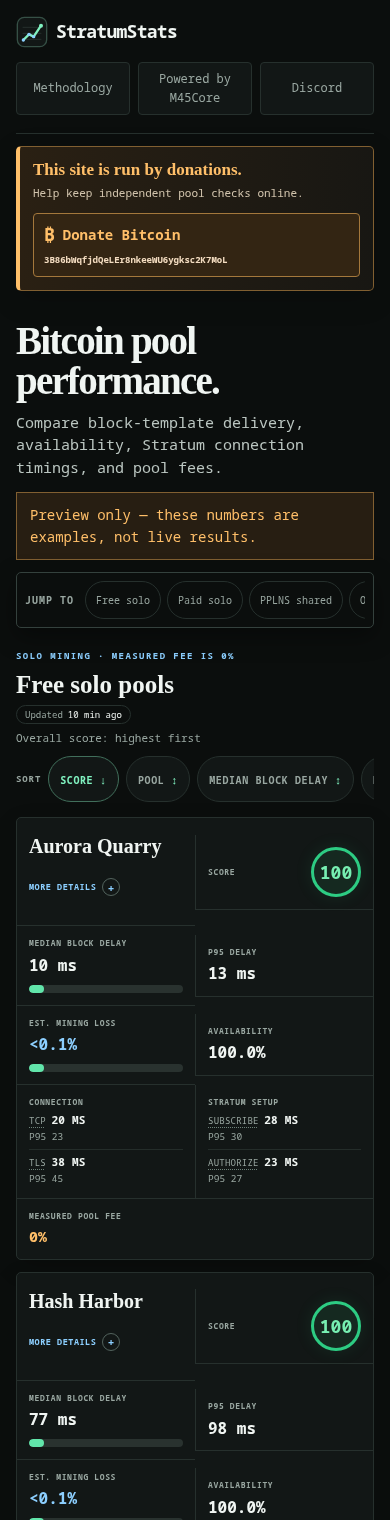
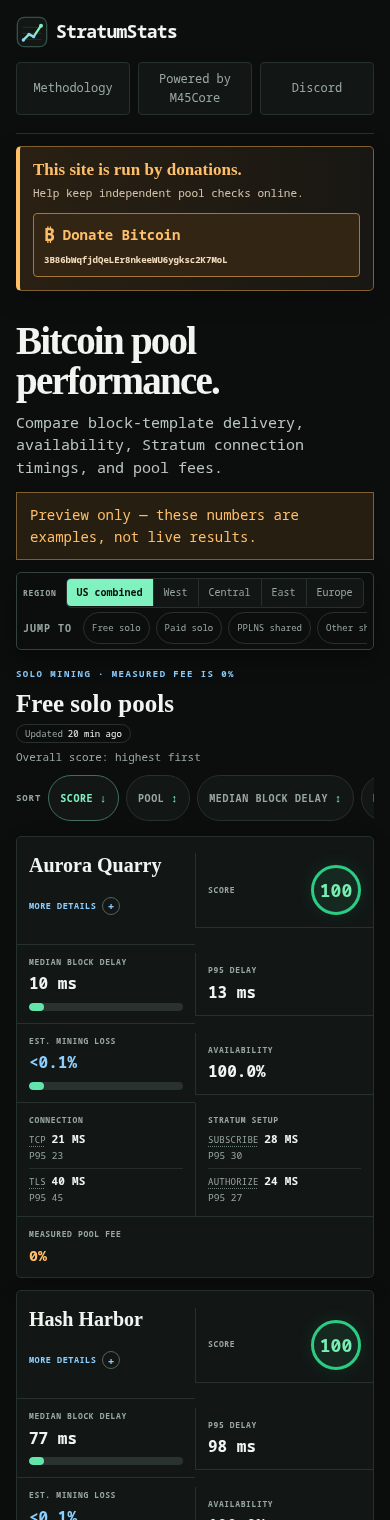
Restore regions in compact dashboard controls

diff --git a/internal/web/static/style.css b/internal/web/static/style.css
@@ -17,12 +17,13 @@
 .measurement-head,.measurement-row{grid-template-columns:1.25fr 1.4fr .75fr .9fr 1fr 1.1fr 1.1fr 1.05fr;min-width:1280px}.fee-changed{color:var(--red)!important;font-weight:800}
 .visually-hidden{position:absolute!important;width:1px!important;height:1px!important;padding:0!important;margin:-1px!important;overflow:hidden!important;clip:rect(0,0,0,0)!important;white-space:nowrap!important;border:0!important}@keyframes row-update-flash{0%{background:rgba(128,242,192,.32);box-shadow:inset 5px 0 0 var(--mint)}100%{background:transparent;box-shadow:inset 0 0 0 transparent}}.measurement-row.row-updated{animation:row-update-flash 1.8s ease-out}@media(prefers-reduced-motion:reduce){.measurement-row.row-updated{animation:none;box-shadow:inset 5px 0 0 var(--mint)}}
 .vantage-bar{display:flex;align-items:center;justify-content:space-between;gap:18px;margin:0 0 18px}.vantage-selector{display:flex;border:1px solid var(--line);border-radius:5px;overflow:hidden;background:var(--panel)}.vantage-selector a{padding:8px 13px;color:var(--muted);font-size:11px;border-right:1px solid var(--line)}.vantage-selector a:last-child{border-right:0}.vantage-selector a:hover{color:var(--ink)}.vantage-selector a[aria-current=page]{background:var(--mint);color:#08110d;font-weight:800}.vantage-bar p{margin:0;color:var(--muted);font-size:10px;text-align:right}.vantage-bar p strong{color:var(--ink)}.vantage-stale{color:var(--red);font-weight:800}
-.dashboard-controls{position:sticky;top:0;z-index:15;display:grid;gap:8px;margin:0 0 28px;padding:10px;border:1px solid #34413d;border-radius:5px;background:rgba(11,14,13,.97);box-shadow:0 8px 24px rgba(0,0,0,.38);backdrop-filter:blur(8px)}.dashboard-controls .vantage-bar{justify-content:flex-start;margin:0;min-width:0}.dashboard-controls .vantage-bar p{margin-left:auto}.control-label{flex:0 0 auto;margin-right:5px;color:var(--muted);font-size:9px;font-weight:800;letter-spacing:.1em;text-transform:uppercase}.dashboard-controls .section-jump{flex-wrap:nowrap;min-width:0;margin:0;padding:0;overflow-x:auto;overscroll-behavior-inline:contain;scrollbar-width:thin}.dashboard-controls .section-jump span,.dashboard-controls .section-jump a{flex:0 0 auto}.dashboard-controls .section-jump a{display:inline-flex;align-items:center;min-height:32px}.pool-section[id]{scroll-margin-top:112px}
+.dashboard-controls{position:sticky;top:0;z-index:15;display:flex;align-items:center;gap:12px;margin:0 0 22px;padding:6px 8px;border:1px solid #34413d;border-radius:5px;background:rgba(11,14,13,.97);box-shadow:0 8px 24px rgba(0,0,0,.38);backdrop-filter:blur(8px)}.dashboard-controls .vantage-bar{flex:0 0 auto;justify-content:flex-start;gap:6px;margin:0;min-width:0}.dashboard-controls .vantage-selector a{padding:6px 10px;font-size:10px}.control-label{flex:0 0 auto;margin-right:3px;color:var(--muted);font-size:8px;font-weight:800;letter-spacing:.1em;text-transform:uppercase}.dashboard-controls .section-jump{flex-wrap:nowrap;min-width:0;margin:0;padding:0;overflow-x:auto;overscroll-behavior-inline:contain;scrollbar-width:thin}.dashboard-controls .section-jump span,.dashboard-controls .section-jump a{flex:0 0 auto}.dashboard-controls .section-jump a{display:inline-flex;align-items:center;min-height:28px;padding:4px 7px;font-size:9px}.pool-section[id]{scroll-margin-top:64px}
 .free-eyebrow{color:#8ccfff}.free-section .measurement-head{border-bottom-color:#4b7890}.free-section .measurement-row{border-left:2px solid rgba(140,207,255,.45)}
 .pplns-eyebrow{color:var(--amber)}.other-eyebrow{color:#d5b8ff}.pplns-section .measurement-head{border-bottom-color:#80623d}.other-section .measurement-head{border-bottom-color:#655477}
 @media(max-width:900px){.compact-hero>div{display:block}.compact-hero h1{white-space:normal}.compact-hero .lede{margin-top:10px}.measurement-head,.measurement-row{min-width:1180px}}
 @media(max-width:620px){.vantage-bar{display:block}.vantage-selector{overflow-x:auto}.vantage-selector a{flex:1;text-align:center;white-space:nowrap}.vantage-bar p{margin-top:8px;text-align:left}}
-@media(max-width:620px){.dashboard-controls{gap:9px;margin-bottom:22px;padding:8px}.dashboard-controls .vantage-bar{display:grid;grid-template-columns:auto minmax(0,1fr);gap:7px}.dashboard-controls .vantage-selector{min-width:0}.dashboard-controls .vantage-bar p{grid-column:1/-1;margin:0;text-align:left}.dashboard-controls .section-jump a{min-height:38px;padding:7px 10px}.pool-section[id]{scroll-margin-top:150px}}
+@media(max-width:900px){.dashboard-controls{display:grid;gap:5px}.dashboard-controls .vantage-bar{display:flex}.dashboard-controls .vantage-selector{min-width:0;overflow-x:auto}.pool-section[id]{scroll-margin-top:104px}}
+@media(max-width:620px){.dashboard-controls{margin-bottom:18px;padding:5px 6px}.dashboard-controls .vantage-selector a{padding:6px 10px}.dashboard-controls .section-jump a{min-height:32px;padding:5px 8px}.pool-section[id]{scroll-margin-top:104px}}
 
 
 .measurement-row>.measurement-details{grid-column:1/-1;min-width:0;padding:0;border-top:1px solid #202926;background:#0f1413}

diff --git a/internal/web/templates/index.html b/internal/web/templates/index.html
@@ -126,7 +126,7 @@
   {{if .Demo}}<div class="notice dashboard-notice compact-notice">Preview only — these numbers are examples, not live results.</div>{{end}}
 
   <div class="dashboard-controls">
-    {{if and (not .Demo) (or (index .AvailableVantages "unknown") .ShowUSCombined (index .AvailableVantages "us-west") (index .AvailableVantages "us-central") (index .AvailableVantages "us-east") (index .AvailableVantages "europe"))}}<section class="vantage-bar" aria-label="Measurement region">
+    {{if or (index .AvailableVantages "unknown") .ShowUSCombined (index .AvailableVantages "us-west") (index .AvailableVantages "us-central") (index .AvailableVantages "us-east") (index .AvailableVantages "europe")}}<section class="vantage-bar" aria-label="Measurement region">
       <span class="control-label">Region</span>
       <div class="vantage-selector">
         {{if index .AvailableVantages "unknown"}}<a href="/?vantage=unknown" data-vantage="unknown" {{if eq .SelectedVantage "unknown"}}aria-current="page"{{end}}>Local</a>{{end}}
@@ -136,7 +136,6 @@
         {{if index .AvailableVantages "us-east"}}<a href="/?vantage=us-east" data-vantage="us-east" {{if eq .SelectedVantage "us-east"}}aria-current="page"{{end}}>East</a>{{end}}
         {{if index .AvailableVantages "europe"}}<a href="/?vantage=europe" data-vantage="europe" {{if eq .SelectedVantage "europe"}}aria-current="page"{{end}}>Europe</a>{{end}}
       </div>
-      <p><strong>{{.SelectedLabel}}</strong>{{with .VantageStatus}}{{if .LastObservationAt}} · checked <time datetime="{{.LastObservationAt.Format "2006-01-02T15:04:05Z07:00"}}" data-relative-time>{{.LastObservationAt.Format "02 Jan 15:04 UTC"}}</time>{{end}}{{if .Stale}} · <span class="vantage-stale">out of date</span>{{end}}{{else}}{{if eq .SelectedVantage "unknown"}} · locally collected data{{else}} · combined regional results{{end}}{{end}}</p>
     </section>{{end}}
     <nav class="section-jump" aria-label="Jump to pool group" {{if not (or .FreePools .NormalPools .PPLNSPools .OtherPools .NoRecentDataPools .MissingWalletPools .PendingWalletPools)}}hidden{{end}}><span class="control-label">Jump to</span><a href="#free-solo-pools" {{if not .FreePools}}hidden{{end}}>Free solo</a><a href="#non-free-solo-pools" {{if not .NormalPools}}hidden{{end}}>Paid solo</a><a href="#pplns-share-pools" {{if not .PPLNSPools}}hidden{{end}}>PPLNS shared</a><a href="#other-non-solo-pools" {{if not .OtherPools}}hidden{{end}}>Other shared</a><a href="#no-recent-data-pools" {{if not .NoRecentDataPools}}hidden{{end}}>No recent data</a><a href="#missing-worker-wallet-pools" {{if not .MissingWalletPools}}hidden{{end}}>Worker wallet missing</a><a href="#pending-worker-wallet-pools" {{if not .PendingWalletPools}}hidden{{end}}>Verification pending</a></nav>
   </div>

diff --git a/internal/app/demo_protocol.go b/internal/app/demo_protocol.go
@@ -10,8 +10,10 @@ import (
 )
 
 func appendDemoProtocolData(out []model.Observation, pools []model.Pool, rng *rand.Rand, now time.Time) []model.Observation {
+	demoVantages := [...]string{"us-west", "us-central", "us-east", "europe"}
 	for sample := 0; sample < 24; sample++ {
 		observedAt := now.Add(-time.Duration(24-sample) * 6 * time.Hour)
+		vantage := demoVantages[sample%len(demoVantages)]
 		for index, pool := range pools {
 			if len(pool.Endpoints) == 0 {
 				continue
@@ -20,29 +22,29 @@ func appendDemoProtocolData(out []model.Observation, pools []model.Pool, rng *ra
 			address := net.JoinHostPort(endpoint.Host, strconv.Itoa(endpoint.Port))
 			base := float64(18 + index*4)
 			out = append(out,
-				demoProtocolObservation(observedAt, pool.ID, address, endpoint.TLS, model.ProtocolConnect, model.ProtocolStatusOK, base+rng.Float64()*base*.35),
-				demoProtocolObservation(observedAt, pool.ID, address, endpoint.TLS, model.ProtocolSubscribe, model.ProtocolStatusOK, base*1.25+rng.Float64()*base*.5),
-				demoProtocolObservation(observedAt, pool.ID, address, endpoint.TLS, model.ProtocolAuthorize, model.ProtocolStatusOK, base*1.1+rng.Float64()*base*.45),
+				demoProtocolObservation(observedAt, vantage, pool.ID, address, endpoint.TLS, model.ProtocolConnect, model.ProtocolStatusOK, base+rng.Float64()*base*.35),
+				demoProtocolObservation(observedAt, vantage, pool.ID, address, endpoint.TLS, model.ProtocolSubscribe, model.ProtocolStatusOK, base*1.25+rng.Float64()*base*.5),
+				demoProtocolObservation(observedAt, vantage, pool.ID, address, endpoint.TLS, model.ProtocolAuthorize, model.ProtocolStatusOK, base*1.1+rng.Float64()*base*.45),
 			)
 			if endpoint.TLS {
-				out = append(out, demoProtocolObservation(observedAt, pool.ID, address, true, model.ProtocolTLSHandshake, model.ProtocolStatusOK, base*1.8+rng.Float64()*base*.7))
+				out = append(out, demoProtocolObservation(observedAt, vantage, pool.ID, address, true, model.ProtocolTLSHandshake, model.ProtocolStatusOK, base*1.8+rng.Float64()*base*.7))
 			}
 			if index%5 == 0 {
-				out = append(out, demoProtocolObservation(observedAt, pool.ID, address, endpoint.TLS, model.ProtocolPing, model.ProtocolStatusUnsupported, 2+rng.Float64()*2))
+				out = append(out, demoProtocolObservation(observedAt, vantage, pool.ID, address, endpoint.TLS, model.ProtocolPing, model.ProtocolStatusUnsupported, 2+rng.Float64()*2))
 			} else {
-				out = append(out, demoProtocolObservation(observedAt, pool.ID, address, endpoint.TLS, model.ProtocolPing, model.ProtocolStatusOK, base*.9+rng.Float64()*base*.25))
+				out = append(out, demoProtocolObservation(observedAt, vantage, pool.ID, address, endpoint.TLS, model.ProtocolPing, model.ProtocolStatusOK, base*.9+rng.Float64()*base*.25))
 			}
 		}
 	}
 	return out
 }
 
-func demoProtocolObservation(observedAt time.Time, poolID, endpoint string, tls bool, method, status string, duration float64) model.Observation {
+func demoProtocolObservation(observedAt time.Time, vantage, poolID, endpoint string, tls bool, method, status string, duration float64) model.Observation {
 	return model.Observation{
 		Version:        model.ObservationVersion,
 		RecordType:     model.RecordTypeProtocol,
 		ObservedAt:     observedAt,
-		Vantage:        "demo",
+		Vantage:        vantage,
 		PoolID:         poolID,
 		Endpoint:       endpoint,
 		ProtocolMethod: method,

diff --git a/internal/web/regional_test.go b/internal/web/regional_test.go
@@ -159,7 +159,7 @@ func TestDashboardRendersRegionalSelectionAndStatus(t *testing.T) {
 	response := httptest.NewRecorder()
 	handler.ServeHTTP(response, httptest.NewRequest("GET", "/?vantage=us-west", nil))
 	body := response.Body.String()
-	for _, expected := range []string{`aria-current="page">West`, "US West", "checked <time", "data-relative-time"} {
+	for _, expected := range []string{`aria-current="page">West`, `class="control-label">Region`, "vantage=us-west"} {
 		if !strings.Contains(body, expected) {
 			t.Errorf("dashboard missing %q", expected)
 		}
@@ -215,7 +215,7 @@ func TestDashboardDefaultsToLocalWithoutRegionalProbeData(t *testing.T) {
 	response := httptest.NewRecorder()
 	handler.ServeHTTP(response, httptest.NewRequest("GET", "/", nil))
 	body := response.Body.String()
-	for _, expected := range []string{`aria-current="page">Local`, "locally collected data", `class="dashboard-controls"`, `class="control-label">Region`} {
+	for _, expected := range []string{`aria-current="page">Local`, `class="dashboard-controls"`, `class="control-label">Region`} {
 		if !strings.Contains(body, expected) {
 			t.Errorf("dashboard missing %q", expected)
 		}
@@ -223,6 +223,30 @@ func TestDashboardDefaultsToLocalWithoutRegionalProbeData(t *testing.T) {
 	for _, unexpected := range []string{"US combined", "vantage=us-west", "vantage=europe"} {
 		if strings.Contains(body, unexpected) {
 			t.Errorf("dashboard renders unavailable view %q", unexpected)
+		}
+	}
+}
+
+func TestDashboardPreviewShowsRegionalSelector(t *testing.T) {
+	now := time.Now().UTC()
+	observations := []model.Observation{
+		{PoolID: "pool", Vantage: "us-west", BlockID: "west", ObservedAt: now, Eligible: true, Arrived: true, OffsetMS: 10},
+		{PoolID: "pool", Vantage: "europe", BlockID: "europe", ObservedAt: now, Eligible: true, Arrived: true, OffsetMS: 20},
+	}
+	handler, err := (Server{
+		Pools: []model.Pool{{ID: "pool", Name: "Pool"}},
+		Load:  func() ([]model.Observation, error) { return observations, nil },
+		Demo:  true,
+	}).Handler()
+	if err != nil {
+		t.Fatal(err)
+	}
+	response := httptest.NewRecorder()
+	handler.ServeHTTP(response, httptest.NewRequest("GET", "/", nil))
+	body := response.Body.String()
+	for _, expected := range []string{`class="vantage-selector"`, `aria-current="page">US combined`, `vantage=us-west`, `vantage=europe`} {
+		if !strings.Contains(body, expected) {
+			t.Errorf("preview dashboard missing %q", expected)
 		}
 	}
 }

diff --git a/internal/app/app.go b/internal/app/app.go
@@ -282,6 +282,7 @@ func demoData(pools []model.Pool) []model.Observation {
 	rng := rand.New(rand.NewSource(81)) // #nosec G404 -- reproducible synthetic demo data is intentional.
 	out := make([]model.Observation, 0, len(pools)*120)
 	now := time.Now().UTC()
+	demoVantages := [...]string{"us-west", "us-central", "us-east", "europe"}
 	for i := 0; i < 120; i++ {
 		for p, pool := range pools {
 			target := demoLatencyTarget(p, len(pools))
@@ -294,7 +295,7 @@ func demoData(pools []model.Pool) []model.Observation {
 			case 24:
 				arrived = i%30 != 0 // four missed eligible deliveries
 			}
-			observation := model.Observation{Version: model.ObservationVersion, ObservedAt: now.Add(-time.Duration(120-i) * 10 * time.Minute), Vantage: "demo", BlockID: fmt.Sprintf("demo-%03d", i), PoolID: pool.ID, Eligible: true, Arrived: arrived, OffsetMS: offset, EmptyFirst: rng.Float64() < float64(p)*.018, TLS: p%2 == 0, CoinbaseAnalyzed: arrived}
+			observation := model.Observation{Version: model.ObservationVersion, ObservedAt: now.Add(-time.Duration(120-i) * 10 * time.Minute), Vantage: demoVantages[i%len(demoVantages)], BlockID: fmt.Sprintf("demo-%03d", i), PoolID: pool.ID, Eligible: true, Arrived: arrived, OffsetMS: offset, EmptyFirst: rng.Float64() < float64(p)*.018, TLS: p%2 == 0, CoinbaseAnalyzed: arrived}
 			if pool.Category == "solo" && arrived {
 				fee := float64((p % 4)) * 0.5
 				total := uint64(312_500_000)

diff --git a/internal/web/web.go b/internal/web/web.go
@@ -63,9 +63,13 @@ func (s Server) Handler() (http.Handler, error) {
 		}
 		available := availableVantages(observations)
 		statuses := buildVantageStatuses(observations, now)
-		hideStaleRegionalVantages(available, statuses)
+		if !s.Demo {
+			hideStaleRegionalVantages(available, statuses)
+		}
 		vantage := r.URL.Query().Get("vantage")
-		if vantage == "" && !s.Demo {
+		if vantage == "" && s.Demo && (available["us-west"] || available["us-central"] || available["us-east"] || available["europe"]) {
+			vantage = "us-all"
+		} else if vantage == "" && !s.Demo {
 			if available["us-west"] || available["us-central"] || available["us-east"] {
 				vantage = "us-all"
 			} else if available["unknown"] {
